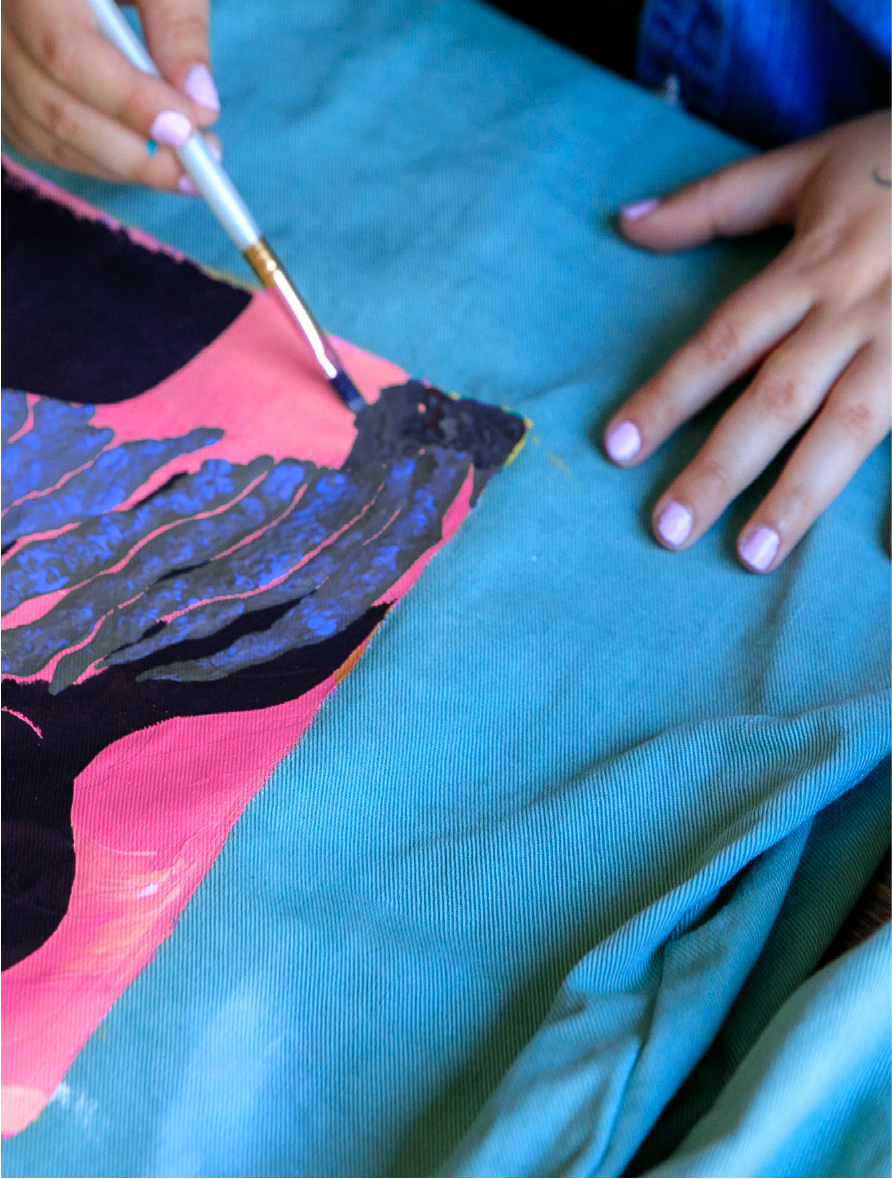
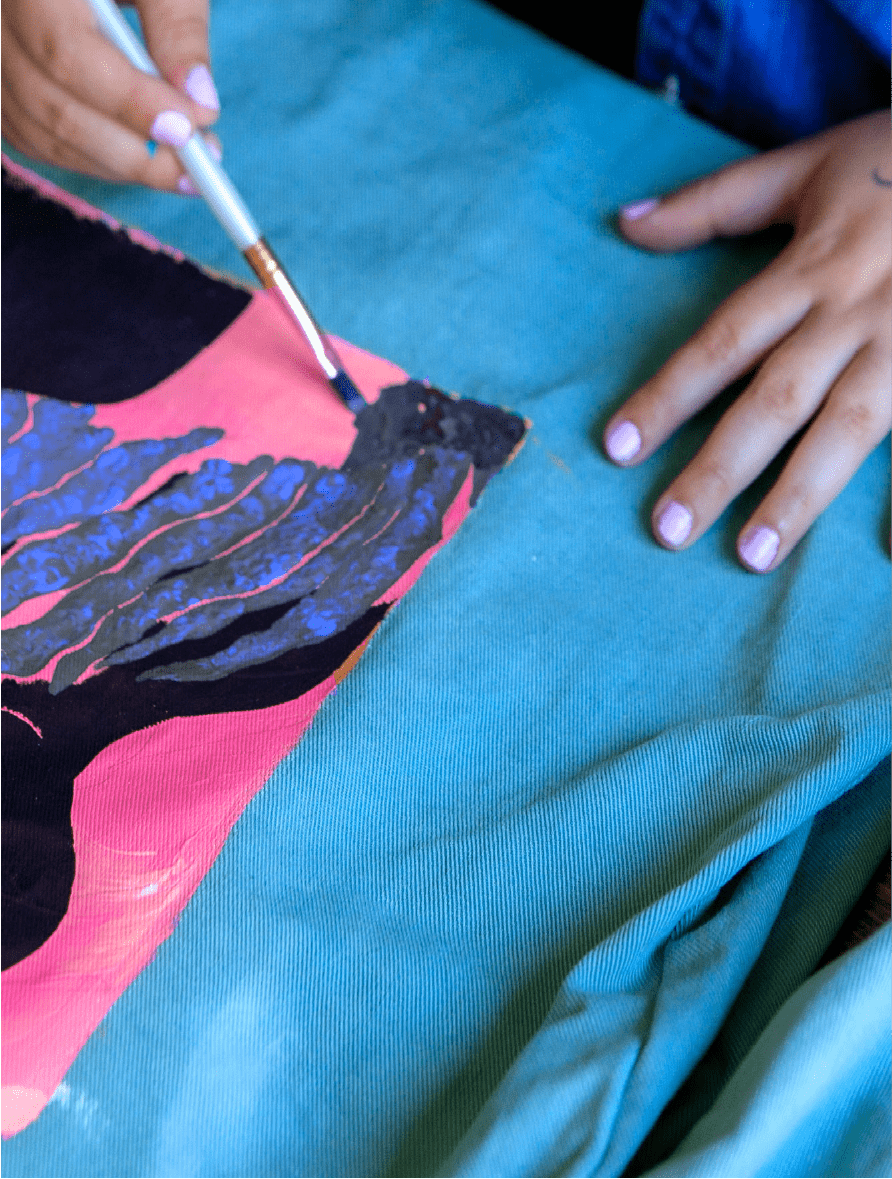
comprimi imagenes

diff --git a/index.html b/index.html
@@ -19,11 +19,10 @@
       integrity="sha384-KK94CHFLLe+nY2dmCWGMq91rCGa5gtU4mk92HdvYe+M/SXH301p5ILy+dN9+nJOZ"
       crossorigin="anonymous"
     />
-  
+
     <link rel="stylesheet" href="./styles/style.css" />
   </head>
   <body>
-    
     <header>
       <nav class="navbar navbar-expand-lg bg-body-tertiary">
         <div class="container-fluid">
@@ -97,13 +96,25 @@
       <div id="carouselExample" class="carousel slide margenCarousel">
         <div class="carousel-inner">
           <div class="carousel-item active">
-            <img src="./imagenes/vertical1.png" class="d-block w-100" alt="..." />
+            <img
+              src="./imagenes/vertical1.png"
+              class="d-block w-100"
+              alt="..."
+            />
           </div>
           <div class="carousel-item">
-            <img src="./imagenes/vertical2.png" class="d-block w-100" alt="..." />
+            <img
+              src="./imagenes/vertical2.png"
+              class="d-block w-100"
+              alt="..."
+            />
           </div>
           <div class="carousel-item">
-            <img src="./imagenes/vertica3.png" class="d-block w-100" alt="..." />
+            <img
+              src="./imagenes/vertica3.png"
+              class="d-block w-100"
+              alt="..."
+            />
           </div>
         </div>
         <button
@@ -126,36 +137,68 @@
         </button>
       </div>
       <div class="botonEmergente">
-        <button type="button" class="btn botonColor" data-bs-toggle="modal" data-bs-target="#exampleModal" data-bs-whatever="@mdo">Quiero mas info!</button>
+        <button
+          type="button"
+          class="btn botonColor"
+          data-bs-toggle="modal"
+          data-bs-target="#exampleModal"
+          data-bs-whatever="@mdo"
+        >
+          Quiero mas info!
+        </button>
       </div>
-      
-  
-  <div class="modal fade" id="exampleModal" tabindex="-1" aria-labelledby="exampleModalLabel" aria-hidden="true">
-    <div class="modal-dialog">
-      <div class="modal-content">
-        <div class="modal-header">
-          <h1 class="modal-title fs-5" id="exampleModalLabel">Quiero saber cuando haya Promos y Rebajas!</h1>
-          <button type="button" class="btn-close" data-bs-dismiss="modal" aria-label="Close"></button>
-        </div>
-        <div class="modal-body">
-          <form>
-            <div class="mb-3">
-              <label for="recipient-name" class="col-form-label">Email:</label>
-              <input type="text" class="form-control" id="recipient-name">
+
+      <div
+        class="modal fade"
+        id="exampleModal"
+        tabindex="-1"
+        aria-labelledby="exampleModalLabel"
+        aria-hidden="true"
+      >
+        <div class="modal-dialog">
+          <div class="modal-content">
+            <div class="modal-header">
+              <h1 class="modal-title fs-5" id="exampleModalLabel">
+                Quiero saber cuando haya Promos y Rebajas!
+              </h1>
+              <button
+                type="button"
+                class="btn-close"
+                data-bs-dismiss="modal"
+                aria-label="Close"
+              ></button>
             </div>
-            <div class="mb-3">
-              <label for="message-text" class="col-form-label">Mensaje para Asterisc:</label>
-              <textarea class="form-control" id="message-text"></textarea>
+            <div class="modal-body">
+              <form>
+                <div class="mb-3">
+                  <label for="recipient-name" class="col-form-label"
+                    >Email:</label
+                  >
+                  <input type="text" class="form-control" id="recipient-name" />
+                </div>
+                <div class="mb-3">
+                  <label for="message-text" class="col-form-label"
+                    >Mensaje para Asterisc:</label
+                  >
+                  <textarea class="form-control" id="message-text"></textarea>
+                </div>
+              </form>
             </div>
-          </form>
-        </div>
-        <div class="modal-footer">
-          <button type="button" class="btn btn-secondary" data-bs-dismiss="modal">No, me lo pierdo</button>
-          <button type="button" class="btn botonColor">Quiero enterarme</button>
+            <div class="modal-footer">
+              <button
+                type="button"
+                class="btn btn-secondary"
+                data-bs-dismiss="modal"
+              >
+                No, me lo pierdo
+              </button>
+              <button type="button" class="btn botonColor">
+                Quiero enterarme
+              </button>
+            </div>
+          </div>
         </div>
       </div>
-    </div>
-  </div>
     </main>
     <footer class="footer">
       <div>
@@ -184,6 +227,5 @@
       integrity="sha384-ENjdO4Dr2bkBIFxQpeoTz1HIcje39Wm4jDKdf19U8gI4ddQ3GYNS7NTKfAdVQSZe"
       crossorigin="anonymous"
     ></script>
-    
   </body>
 </html>

diff --git a/pages/Productos.html b/pages/Productos.html
@@ -150,73 +150,50 @@
         <div class="card">
           <img src="../imagenes/campe7.jpg" />
           <h4>CAMPERA SAILOR MOON</h4>
-          <p class="descripciones">
-            campera de jean especial dibujo animado
-          </p>
+          <p class="descripciones">campera de jean especial dibujo animado</p>
           <a class="botonVerMas" href="#">Ver mas</a>
         </div>
 
         <div class="card">
           <img src="../imagenes/campe8.jpg" />
           <h4>CAMPERA PIKACHU</h4>
-          <p class="descripciones">
-            campera de jean especial dibujo animado
-          </p>
+          <p class="descripciones">campera de jean especial dibujo animado</p>
           <a class="botonVerMas" href="#">Ver mas</a>
         </div>
 
         <div class="card">
           <img src="../imagenes/campe9.jpg" />
           <h4>CAMPERA RICK and MORTY</h4>
-          <p class="descripciones">
-            campera de jean especial dibujo animado
-          </p>
+          <p class="descripciones">campera de jean especial dibujo animado</p>
           <a class="botonVerMas" href="#">Ver mas</a>
         </div>
       </div>
     </main>
     <footer class="footer">
-      <div  ><a  href="../index.html">
-           <img  
-             src="../imagenes/asterisco.png"
-           class="asterisco"
-             alt="asterisco"
-         /></a></div>
-         
-      
-       <div class="redesSociales">
-         <a href=""
-         target="_blank"></a
-         ><img
-           src="../imagenes/whatsapp.png"
-      
-           alt="whatsapp"
-         />
-         <a href="https://www.facebook.com/"
-         target="_blank"
-           ><img
-             src="../imagenes/facebook.png"
-          
-             alt="facebook"
-         /></a>
-         <a href="https://www.instagram.com/"
-         target="_blank">
-           <img
-             src="../imagenes/instagram.png"
-         
-             alt="instagram"
-         /></a>
-         <a href="https://www.tiktok.com/login"
-         target="_blank"
-           ><img
-             src="../imagenes/tiktok.png"
-           
-             alt="tiktok"
-         /></a>
-       </div>
-       <div>   <p class="copyright">Copyright ©Asterisc2023</p></div>
-    
-     </footer>
+      <div>
+        <a href="../index.html">
+          <img
+            src="../imagenes/asterisco.png"
+            class="asterisco"
+            alt="asterisco"
+        /></a>
+      </div>
+
+      <div class="redesSociales">
+        <a href="" target="_blank"></a
+        ><img src="../imagenes/whatsapp.png" alt="whatsapp" />
+        <a href="https://www.facebook.com/" target="_blank"
+          ><img src="../imagenes/facebook.png" alt="facebook"
+        /></a>
+        <a href="https://www.instagram.com/" target="_blank">
+          <img src="../imagenes/instagram.png" alt="instagram"
+        /></a>
+        <a href="https://www.tiktok.com/login" target="_blank"
+          ><img src="../imagenes/tiktok.png" alt="tiktok"
+        /></a>
+      </div>
+      <div><p class="copyright">Copyright ©Asterisc2023</p></div>
+    </footer>
     <script
       src="https://cdn.jsdelivr.net/npm/bootstrap@5.3.0-alpha3/dist/js/bootstrap.bundle.min.js"
       integrity="sha384-ENjdO4Dr2bkBIFxQpeoTz1HIcje39Wm4jDKdf19U8gI4ddQ3GYNS7NTKfAdVQSZe"

diff --git a/pages/Nosotros.html b/pages/Nosotros.html
@@ -113,7 +113,13 @@
       </p>
       <img class="mision" src="../imagenes/collage.png" alt="" />
     </div>
-    <div><img class="sobreNosotrosImagen" src="../imagenes/sobrenosotros.png" alt="" /></div>
+    <div>
+      <img
+        class="sobreNosotrosImagen"
+        src="../imagenes/sobrenosotros.png"
+        alt=""
+      />
+    </div>
 
     <footer class="footer">
       <div>

diff --git a/styles/style.css b/styles/style.css
@@ -183,6 +183,10 @@ h4 {
   width: 100%;
 }
 
+.imagenCentral {
+  width: 100%;
+}
+
 .galeriaImagenes {
   display: grid;
   grid-template-columns: 33% 33% 33%;
@@ -191,7 +195,7 @@ h4 {
   height: 90%;
   align-items: center;
   margin-top: 5%;
-  padding: 5%;
+  padding: 3%;
   gap: 10px;
   justify-content: center;
 }

diff --git a/sass/_galeria.scss b/sass/_galeria.scss
@@ -1,5 +1,7 @@
 
-
+.imagenCentral{
+    width: 100%;
+}
 .galeriaImagenes{
 display: grid;
 grid-template-columns: 33% 33% 33%;
@@ -8,7 +10,7 @@ width: 100%;
 height: 90%;
 align-items: center;
 margin-top: 5%;
-padding: 5%;
+padding: 3%;
 gap: 10px;
 justify-content: center;
 
